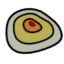
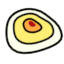
Add import toolbar

diff --git a/io_shapefile/op_import_shp.py b/io_shapefile/op_import_shp.py
@@ -47,6 +47,7 @@ class IMPORT_SHP_FILE_DIALOG(Operator):
 	"""Select shp file, loads the fields and start importgis.shapefile_props_dialog operator"""
 
 	bl_idname = "importgis.shapefile_file_dialog"
+	bl_description = 'Import ESRI shapefile (.shp)'
 	bl_label = "Import SHP"
 	bl_options = {'INTERNAL'}
 
@@ -85,7 +86,7 @@ class IMPORT_SHP_PROPS_DIALOG(Operator):
 	"""Shapefile importer properties dialog"""
 
 	bl_idname = "importgis.shapefile_props_dialog"
-	bl_description = 'Import from ESRI shapefile file format (.shp)'
+	bl_description = 'Import ESRI shapefile (.shp)'
 	bl_label = "Import SHP"
 	bl_options = {"INTERNAL"}
 
@@ -225,7 +226,7 @@ class IMPORT_SHP(Operator):
 
 	bl_idname = "importgis.shapefile" # important since its how bpy.ops.import.shapefile is constructed (allows calling operator from python console or another script)
 	#bl_idname rules: must contain one '.' (dot) charactere, no capital letters, no reserved words (like 'import')
-	bl_description = 'Import from ESRI shapefile file format (.shp)'
+	bl_description = 'Import ESRI shapefile (.shp)'
 	bl_label = "Import SHP"
 	bl_options = {"UNDO"}
 

diff --git a/__init__.py b/__init__.py
@@ -77,6 +77,13 @@ class bgisPanel(bpy.types.Panel):
 		row.operator("importgis.osm_query", icon_value=icons_dict["osm"].icon_id)
 		#row.operator("bgis.pref_show", icon='SCRIPTWIN', text='')
 
+		row = layout.row(align=True)
+		row.label('Import:')#, icon='LIBRARY_DATA_DIRECT')
+		row.operator("importgis.shapefile_file_dialog", icon_value=icons_dict["shp"].icon_id, text='')
+		row.operator("importgis.georaster", icon_value=icons_dict["raster"].icon_id, text='')
+		row.operator("importgis.osm_file", icon_value=icons_dict["osm_xml"].icon_id, text='')
+		#row.operator("importgis.lidar_las", icon_value=icons_dict["lidar"].icon_id, text='')
+
 		col = layout.column(align=True)
 		col.label('Camera creation:')
 		col.operator("camera.georender", icon_value=icons_dict["georefCam"].icon_id, text='Georender')
